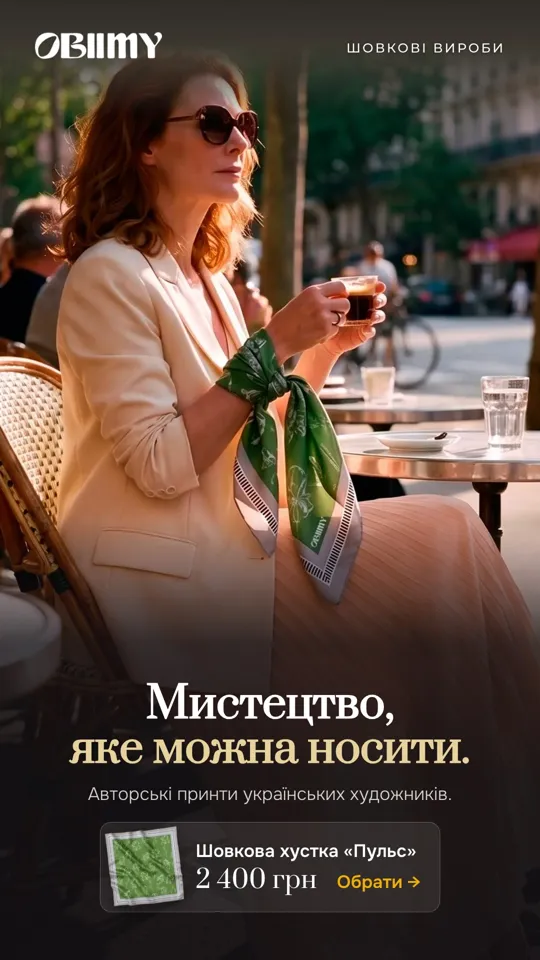
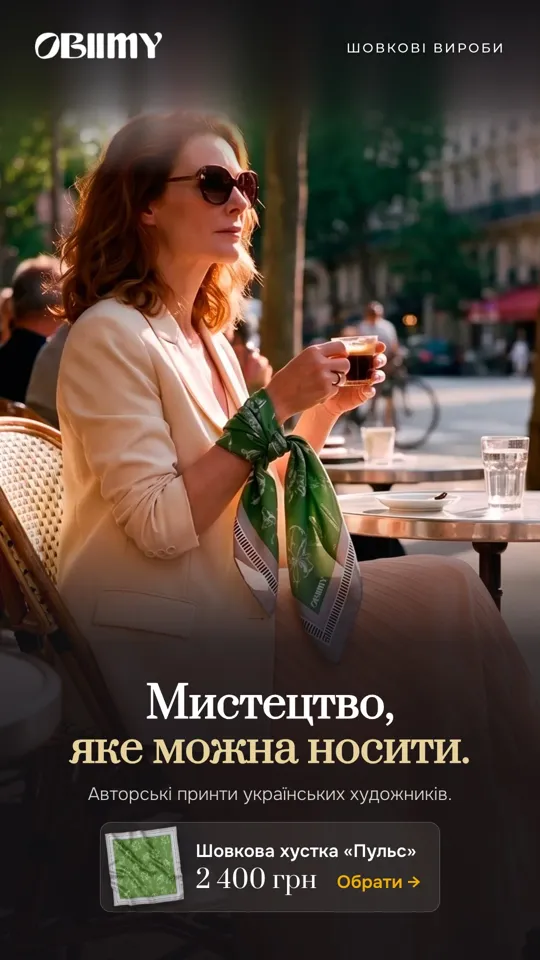
p12: the woman lower, background extended above her; gallery order follows keep.txt (g07, g08 last, o12 in the middle)

diff --git a/site/creatives.html b/site/creatives.html
@@ -89,20 +89,18 @@ footer { margin-top: 72px; color: var(--ink2); font-size: .85rem; border-top: 1p
 <button type="button" id="clear">Очистити</button>
 <textarea id="out" readonly aria-label="Список відмічених банерів"></textarea></div>
 
-<section class="grp flat"><div class="grid"><figure class="c st" data-f="st" data-id="solo-one/g07-scrunchie-gift.jpg"><a href="creatives/solo-one/g07-scrunchie-gift.jpg?v=933e0425" target="_blank" rel="noopener"><img src="creatives/solo-one/g07-scrunchie-gift-540.webp?v=933e0425" alt="Подарункові · варіант A" loading="lazy" width="540" height="960"></a>
-        <figcaption><label class="pick"><input type="checkbox" data-id="solo-one/g07-scrunchie-gift.jpg"><span>Залишити</span></label><span class="fid">g07</span><a href="creatives/solo-one/g07-scrunchie-gift.jpg?v=933e0425" download="g07-scrunchie-gift.jpg">JPG ↓</a></figcaption></figure><figure class="c st" data-f="st" data-id="solo-one/g08-scarf-gift-iskra.jpg"><a href="creatives/solo-one/g08-scarf-gift-iskra.jpg?v=e2d834a8" target="_blank" rel="noopener"><img src="creatives/solo-one/g08-scarf-gift-iskra-540.webp?v=e2d834a8" alt="Подарункові · варіант A" loading="lazy" width="540" height="960"></a>
-        <figcaption><label class="pick"><input type="checkbox" data-id="solo-one/g08-scarf-gift-iskra.jpg"><span>Залишити</span></label><span class="fid">g08</span><a href="creatives/solo-one/g08-scarf-gift-iskra.jpg?v=e2d834a8" download="g08-scarf-gift-iskra.jpg">JPG ↓</a></figcaption></figure><figure class="c st" data-f="st" data-id="solo-orig/o12-contact-iskra.jpg"><a href="creatives/solo-orig/o12-contact-iskra.jpg?v=85886eb4" target="_blank" rel="noopener"><img src="creatives/solo-orig/o12-contact-iskra-540.webp?v=85886eb4" alt="Оригінальні концепції" loading="lazy" width="540" height="960"></a>
-        <figcaption><label class="pick"><input type="checkbox" data-id="solo-orig/o12-contact-iskra.jpg"><span>Залишити</span></label><span class="fid">o12</span><a href="creatives/solo-orig/o12-contact-iskra.jpg?v=85886eb4" download="o12-contact-iskra.jpg">JPG ↓</a></figcaption></figure><figure class="c st" data-f="st" data-id="solo-tri/t01-decades.jpg"><a href="creatives/solo-tri/t01-decades.jpg?v=e7948695" target="_blank" rel="noopener"><img src="creatives/solo-tri/t01-decades-540.webp?v=e7948695" alt="Смуги-історії · варіант A" loading="lazy" width="540" height="960"></a>
+<section class="grp flat"><div class="grid"><figure class="c st" data-f="st" data-id="solo-tri/t01-decades.jpg"><a href="creatives/solo-tri/t01-decades.jpg?v=e7948695" target="_blank" rel="noopener"><img src="creatives/solo-tri/t01-decades-540.webp?v=e7948695" alt="Смуги-історії · варіант A" loading="lazy" width="540" height="960"></a>
         <figcaption><label class="pick"><input type="checkbox" data-id="solo-tri/t01-decades.jpg"><span>Залишити</span></label><span class="fid">t01</span><a href="creatives/solo-tri/t01-decades.jpg?v=e7948695" download="t01-decades.jpg">JPG ↓</a></figcaption></figure><figure class="c st" data-f="st" data-id="solo-tri/t05-avantiura-ways.jpg"><a href="creatives/solo-tri/t05-avantiura-ways.jpg?v=cb797d62" target="_blank" rel="noopener"><img src="creatives/solo-tri/t05-avantiura-ways-540.webp?v=cb797d62" alt="Смуги-історії · варіант A" loading="lazy" width="540" height="960"></a>
         <figcaption><label class="pick"><input type="checkbox" data-id="solo-tri/t05-avantiura-ways.jpg"><span>Залишити</span></label><span class="fid">t05</span><a href="creatives/solo-tri/t05-avantiura-ways.jpg?v=cb797d62" download="t05-avantiura-ways.jpg">JPG ↓</a></figcaption></figure><figure class="c st" data-f="st" data-id="solo-main/p01-quiet-luxury.jpg"><a href="creatives/solo-main/p01-quiet-luxury.jpg?v=ed75c614" target="_blank" rel="noopener"><img src="creatives/solo-main/p01-quiet-luxury-540.webp?v=ed75c614" alt="Варіант A · тихий преміум" loading="lazy" width="540" height="960"></a>
         <figcaption><label class="pick"><input type="checkbox" data-id="solo-main/p01-quiet-luxury.jpg"><span>Залишити</span></label><span class="fid">p01</span><a href="creatives/solo-main/p01-quiet-luxury.jpg?v=ed75c614" download="p01-quiet-luxury.jpg">JPG ↓</a></figcaption></figure><figure class="c st" data-f="st" data-id="solo-main/p05-character.jpg"><a href="creatives/solo-main/p05-character.jpg?v=5dff62bb" target="_blank" rel="noopener"><img src="creatives/solo-main/p05-character-540.webp?v=5dff62bb" alt="Варіант A · тихий преміум" loading="lazy" width="540" height="960"></a>
         <figcaption><label class="pick"><input type="checkbox" data-id="solo-main/p05-character.jpg"><span>Залишити</span></label><span class="fid">p05</span><a href="creatives/solo-main/p05-character.jpg?v=5dff62bb" download="p05-character.jpg">JPG ↓</a></figcaption></figure><figure class="c st" data-f="st" data-id="solo-main/p06-noticed.jpg"><a href="creatives/solo-main/p06-noticed.jpg?v=22dc43d3" target="_blank" rel="noopener"><img src="creatives/solo-main/p06-noticed-540.webp?v=22dc43d3" alt="Варіант A · тихий преміум" loading="lazy" width="540" height="960"></a>
         <figcaption><label class="pick"><input type="checkbox" data-id="solo-main/p06-noticed.jpg"><span>Залишити</span></label><span class="fid">p06</span><a href="creatives/solo-main/p06-noticed.jpg?v=22dc43d3" download="p06-noticed.jpg">JPG ↓</a></figcaption></figure><figure class="c st" data-f="st" data-id="solo-main/p07-whole-look.jpg"><a href="creatives/solo-main/p07-whole-look.jpg?v=38e9db4b" target="_blank" rel="noopener"><img src="creatives/solo-main/p07-whole-look-540.webp?v=38e9db4b" alt="Варіант A · тихий преміум" loading="lazy" width="540" height="960"></a>
         <figcaption><label class="pick"><input type="checkbox" data-id="solo-main/p07-whole-look.jpg"><span>Залишити</span></label><span class="fid">p07</span><a href="creatives/solo-main/p07-whole-look.jpg?v=38e9db4b" download="p07-whole-look.jpg">JPG ↓</a></figcaption></figure><figure class="c st" data-f="st" data-id="solo-main/p11-italian-silk.jpg"><a href="creatives/solo-main/p11-italian-silk.jpg?v=b608ec16" target="_blank" rel="noopener"><img src="creatives/solo-main/p11-italian-silk-540.webp?v=b608ec16" alt="Варіант A · тихий преміум" loading="lazy" width="540" height="960"></a>
-        <figcaption><label class="pick"><input type="checkbox" data-id="solo-main/p11-italian-silk.jpg"><span>Залишити</span></label><span class="fid">p11</span><a href="creatives/solo-main/p11-italian-silk.jpg?v=b608ec16" download="p11-italian-silk.jpg">JPG ↓</a></figcaption></figure><figure class="c st" data-f="st" data-id="solo-main/p12-wearable-art.jpg"><a href="creatives/solo-main/p12-wearable-art.jpg?v=04d4a08f" target="_blank" rel="noopener"><img src="creatives/solo-main/p12-wearable-art-540.webp?v=04d4a08f" alt="Варіант A · тихий преміум" loading="lazy" width="540" height="960"></a>
-        <figcaption><label class="pick"><input type="checkbox" data-id="solo-main/p12-wearable-art.jpg"><span>Залишити</span></label><span class="fid">p12</span><a href="creatives/solo-main/p12-wearable-art.jpg?v=04d4a08f" download="p12-wearable-art.jpg">JPG ↓</a></figcaption></figure><figure class="c st" data-f="st" data-id="solo-main/p15-iskra.jpg"><a href="creatives/solo-main/p15-iskra.jpg?v=54aba789" target="_blank" rel="noopener"><img src="creatives/solo-main/p15-iskra-540.webp?v=54aba789" alt="Варіант A · тихий преміум" loading="lazy" width="540" height="960"></a>
+        <figcaption><label class="pick"><input type="checkbox" data-id="solo-main/p11-italian-silk.jpg"><span>Залишити</span></label><span class="fid">p11</span><a href="creatives/solo-main/p11-italian-silk.jpg?v=b608ec16" download="p11-italian-silk.jpg">JPG ↓</a></figcaption></figure><figure class="c st" data-f="st" data-id="solo-main/p12-wearable-art.jpg"><a href="creatives/solo-main/p12-wearable-art.jpg?v=05f2b0ac" target="_blank" rel="noopener"><img src="creatives/solo-main/p12-wearable-art-540.webp?v=05f2b0ac" alt="Варіант A · тихий преміум" loading="lazy" width="540" height="960"></a>
+        <figcaption><label class="pick"><input type="checkbox" data-id="solo-main/p12-wearable-art.jpg"><span>Залишити</span></label><span class="fid">p12</span><a href="creatives/solo-main/p12-wearable-art.jpg?v=05f2b0ac" download="p12-wearable-art.jpg">JPG ↓</a></figcaption></figure><figure class="c st" data-f="st" data-id="solo-main/p15-iskra.jpg"><a href="creatives/solo-main/p15-iskra.jpg?v=54aba789" target="_blank" rel="noopener"><img src="creatives/solo-main/p15-iskra-540.webp?v=54aba789" alt="Варіант A · тихий преміум" loading="lazy" width="540" height="960"></a>
         <figcaption><label class="pick"><input type="checkbox" data-id="solo-main/p15-iskra.jpg"><span>Залишити</span></label><span class="fid">p15</span><a href="creatives/solo-main/p15-iskra.jpg?v=54aba789" download="p15-iskra.jpg">JPG ↓</a></figcaption></figure><figure class="c st" data-f="st" data-id="solo-main/u02-london.jpg"><a href="creatives/solo-main/u02-london.jpg?v=49ae0bbc" target="_blank" rel="noopener"><img src="creatives/solo-main/u02-london-540.webp?v=49ae0bbc" alt="Варіант A · український преміум" loading="lazy" width="540" height="960"></a>
-        <figcaption><label class="pick"><input type="checkbox" data-id="solo-main/u02-london.jpg"><span>Залишити</span></label><span class="fid">u02</span><a href="creatives/solo-main/u02-london.jpg?v=49ae0bbc" download="u02-london.jpg">JPG ↓</a></figcaption></figure><figure class="c st" data-f="st" data-id="solo-main/u03-made-in-ua.jpg"><a href="creatives/solo-main/u03-made-in-ua.jpg?v=9a48dc13" target="_blank" rel="noopener"><img src="creatives/solo-main/u03-made-in-ua-540.webp?v=9a48dc13" alt="Варіант A · український преміум" loading="lazy" width="540" height="960"></a>
+        <figcaption><label class="pick"><input type="checkbox" data-id="solo-main/u02-london.jpg"><span>Залишити</span></label><span class="fid">u02</span><a href="creatives/solo-main/u02-london.jpg?v=49ae0bbc" download="u02-london.jpg">JPG ↓</a></figcaption></figure><figure class="c st" data-f="st" data-id="solo-orig/o12-contact-iskra.jpg"><a href="creatives/solo-orig/o12-contact-iskra.jpg?v=85886eb4" target="_blank" rel="noopener"><img src="creatives/solo-orig/o12-contact-iskra-540.webp?v=85886eb4" alt="Оригінальні концепції" loading="lazy" width="540" height="960"></a>
+        <figcaption><label class="pick"><input type="checkbox" data-id="solo-orig/o12-contact-iskra.jpg"><span>Залишити</span></label><span class="fid">o12</span><a href="creatives/solo-orig/o12-contact-iskra.jpg?v=85886eb4" download="o12-contact-iskra.jpg">JPG ↓</a></figcaption></figure><figure class="c st" data-f="st" data-id="solo-main/u03-made-in-ua.jpg"><a href="creatives/solo-main/u03-made-in-ua.jpg?v=9a48dc13" target="_blank" rel="noopener"><img src="creatives/solo-main/u03-made-in-ua-540.webp?v=9a48dc13" alt="Варіант A · український преміум" loading="lazy" width="540" height="960"></a>
         <figcaption><label class="pick"><input type="checkbox" data-id="solo-main/u03-made-in-ua.jpg"><span>Залишити</span></label><span class="fid">u03</span><a href="creatives/solo-main/u03-made-in-ua.jpg?v=9a48dc13" download="u03-made-in-ua.jpg">JPG ↓</a></figcaption></figure><figure class="c st" data-f="st" data-id="solo-main/u05-luxury.jpg"><a href="creatives/solo-main/u05-luxury.jpg?v=9126afe5" target="_blank" rel="noopener"><img src="creatives/solo-main/u05-luxury-540.webp?v=9126afe5" alt="Варіант A · український преміум" loading="lazy" width="540" height="960"></a>
         <figcaption><label class="pick"><input type="checkbox" data-id="solo-main/u05-luxury.jpg"><span>Залишити</span></label><span class="fid">u05</span><a href="creatives/solo-main/u05-luxury.jpg?v=9126afe5" download="u05-luxury.jpg">JPG ↓</a></figcaption></figure><figure class="c st" data-f="st" data-id="solo-main/c02-iskra.jpg"><a href="creatives/solo-main/c02-iskra.jpg?v=fadee0c8" target="_blank" rel="noopener"><img src="creatives/solo-main/c02-iskra-540.webp?v=fadee0c8" alt="Варіант A · повноекранні" loading="lazy" width="540" height="960"></a>
         <figcaption><label class="pick"><input type="checkbox" data-id="solo-main/c02-iskra.jpg"><span>Залишити</span></label><span class="fid">c02</span><a href="creatives/solo-main/c02-iskra.jpg?v=fadee0c8" download="c02-iskra.jpg">JPG ↓</a></figcaption></figure><figure class="c st" data-f="st" data-id="solo-main/c05-zolote.jpg"><a href="creatives/solo-main/c05-zolote.jpg?v=4241e29b" target="_blank" rel="noopener"><img src="creatives/solo-main/c05-zolote-540.webp?v=4241e29b" alt="Варіант A · повноекранні" loading="lazy" width="540" height="960"></a>
@@ -113,7 +111,9 @@ footer { margin-top: 72px; color: var(--ink2); font-size: .85rem; border-top: 1p
         <figcaption><label class="pick"><input type="checkbox" data-id="solo-main/c23-look-dark.jpg"><span>Залишити</span></label><span class="fid">c23</span><a href="creatives/solo-main/c23-look-dark.jpg?v=664bd249" download="c23-look-dark.jpg">JPG ↓</a></figcaption></figure><figure class="c st" data-f="st" data-id="final2/obiimy-12-paris-chervonyi-shovk-1080x1920.jpg"><a href="creatives/final2/obiimy-12-paris-chervonyi-shovk-1080x1920.jpg?v=db0148a4" target="_blank" rel="noopener"><img src="creatives/final2/obiimy-12-paris-chervonyi-shovk-1080x1920-540.webp?v=db0148a4" alt="Серія 2 · Париж і Рив’єра" loading="lazy" width="540" height="960"></a>
         <figcaption><label class="pick"><input type="checkbox" data-id="final2/obiimy-12-paris-chervonyi-shovk-1080x1920.jpg"><span>Залишити</span></label><span class="fid">obiimy</span><a href="creatives/final2/obiimy-12-paris-chervonyi-shovk-1080x1920.jpg?v=db0148a4" download="obiimy-12-paris-chervonyi-shovk-1080x1920.jpg">JPG ↓</a></figcaption></figure><figure class="c st" data-f="st" data-id="final2/obiimy-13-paris-shal-1080x1920.jpg"><a href="creatives/final2/obiimy-13-paris-shal-1080x1920.jpg?v=51ed99b8" target="_blank" rel="noopener"><img src="creatives/final2/obiimy-13-paris-shal-1080x1920-540.webp?v=51ed99b8" alt="Серія 2 · Париж і Рив’єра" loading="lazy" width="540" height="960"></a>
         <figcaption><label class="pick"><input type="checkbox" data-id="final2/obiimy-13-paris-shal-1080x1920.jpg"><span>Залишити</span></label><span class="fid">obiimy</span><a href="creatives/final2/obiimy-13-paris-shal-1080x1920.jpg?v=51ed99b8" download="obiimy-13-paris-shal-1080x1920.jpg">JPG ↓</a></figcaption></figure><figure class="c st" data-f="st" data-id="final2/obiimy-20-solo-rivera-1080x1920.jpg"><a href="creatives/final2/obiimy-20-solo-rivera-1080x1920.jpg?v=9ee93e36" target="_blank" rel="noopener"><img src="creatives/final2/obiimy-20-solo-rivera-1080x1920-540.webp?v=9ee93e36" alt="Серія 2 · Париж і Рив’єра" loading="lazy" width="540" height="960"></a>
-        <figcaption><label class="pick"><input type="checkbox" data-id="final2/obiimy-20-solo-rivera-1080x1920.jpg"><span>Залишити</span></label><span class="fid">obiimy</span><a href="creatives/final2/obiimy-20-solo-rivera-1080x1920.jpg?v=9ee93e36" download="obiimy-20-solo-rivera-1080x1920.jpg">JPG ↓</a></figcaption></figure></div></section>
+        <figcaption><label class="pick"><input type="checkbox" data-id="final2/obiimy-20-solo-rivera-1080x1920.jpg"><span>Залишити</span></label><span class="fid">obiimy</span><a href="creatives/final2/obiimy-20-solo-rivera-1080x1920.jpg?v=9ee93e36" download="obiimy-20-solo-rivera-1080x1920.jpg">JPG ↓</a></figcaption></figure><figure class="c st" data-f="st" data-id="solo-one/g07-scrunchie-gift.jpg"><a href="creatives/solo-one/g07-scrunchie-gift.jpg?v=933e0425" target="_blank" rel="noopener"><img src="creatives/solo-one/g07-scrunchie-gift-540.webp?v=933e0425" alt="Подарункові · варіант A" loading="lazy" width="540" height="960"></a>
+        <figcaption><label class="pick"><input type="checkbox" data-id="solo-one/g07-scrunchie-gift.jpg"><span>Залишити</span></label><span class="fid">g07</span><a href="creatives/solo-one/g07-scrunchie-gift.jpg?v=933e0425" download="g07-scrunchie-gift.jpg">JPG ↓</a></figcaption></figure><figure class="c st" data-f="st" data-id="solo-one/g08-scarf-gift-iskra.jpg"><a href="creatives/solo-one/g08-scarf-gift-iskra.jpg?v=e2d834a8" target="_blank" rel="noopener"><img src="creatives/solo-one/g08-scarf-gift-iskra-540.webp?v=e2d834a8" alt="Подарункові · варіант A" loading="lazy" width="540" height="960"></a>
+        <figcaption><label class="pick"><input type="checkbox" data-id="solo-one/g08-scarf-gift-iskra.jpg"><span>Залишити</span></label><span class="fid">g08</span><a href="creatives/solo-one/g08-scarf-gift-iskra.jpg?v=e2d834a8" download="g08-scarf-gift-iskra.jpg">JPG ↓</a></figcaption></figure></div></section>
 <footer>Фото й логотип — obiimy.world. Креативи зроблено за допомогою Claude Code.</footer>
 </div>
 <dialog id="lb" aria-label="Перегляд банера">

diff --git a/ads/solo/solo4.html b/ads/solo/solo4.html
@@ -713,8 +713,8 @@ body { margin: 0; background: #666; font-family: 'Onest', 'Helvetica Neue', Aria
 <!-- Quiet premium: Мистецтво, яке можна носити. -->
 <section class="ad full dark" id="p12-wearable-art">
   <div style="left:0;right:0;top:0;bottom:0;background:#141216"></div>
-  <div style="left:0;right:0;top:0;height:250px;background:rgb(94,89,73)"></div>
-  <div class="photo" style="position:absolute;left:0;right:0;top:90px;height:1920px;-webkit-mask-image:linear-gradient(180deg,transparent 0,#000 140px);mask-image:linear-gradient(180deg,transparent 0,#000 140px)"><img src="src/puls-44-2-2k.webp" alt="" style="object-position:42% 40%"></div>
+  <div style="left:0;right:0;top:0;height:370px;background:rgb(94,89,73)"></div><div style="left:0;right:0;top:0;height:360px;background:url(src/puls-44-2-top.webp) 42% 0/1920px 100% no-repeat"></div><div style="left:0;right:0;top:0;height:360px;background:linear-gradient(180deg,rgba(20,18,22,.86) 0%,rgba(20,18,22,.6) 45%,rgba(20,18,22,0) 100%)"></div>
+  <div class="photo" style="position:absolute;left:0;right:0;top:210px;height:1920px;-webkit-mask-image:linear-gradient(180deg,transparent 0,#000 140px);mask-image:linear-gradient(180deg,transparent 0,#000 140px)"><img src="src/puls-44-2-2k.webp" alt="" style="object-position:42% 40%"></div>
   <div style="left:0;right:0;top:0;height:260px;background:linear-gradient(180deg,rgba(20,18,22,.55) 0%,rgba(20,18,22,0) 100%)"></div><div style="left:0;right:0;top:1040px;bottom:0;background:linear-gradient(180deg,rgba(20,18,22,0) 0%,rgba(20,18,22,.78) 28%,rgba(20,18,22,.92) 58%,rgba(20,18,22,.95) 100%)"></div>
   <img src="../../brand/logo-white.png" alt="" style="left:70px;top:64px;height:54px;display:block">
   <p style="right:70px;top:80px;font-family:Montserrat,sans-serif;font-size:26px;font-weight:500;letter-spacing:.14em;text-transform:uppercase;white-space:nowrap;color:#fff;text-shadow:0 1px 10px rgba(0,0,0,.45)">Шовкові вироби</p>

diff --git a/ads/solo/build4.py b/ads/solo/build4.py
@@ -87,7 +87,8 @@ PROD = {
 MIN = {}   # id -> (cutouts, "Шовкова хустка «…»") for the minimal premium banners
 
 LABEL = {"p12-wearable-art": "Шовкові вироби"}      # top-right label, where it differs from the default
-INLINE = {"p05-character", "p12-wearable-art"}     # no button: «Обрати →» to the right of the price
+INLINE = {"p05-character", "p12-wearable-art"}
+MIRROR_TOP = {"p12-wearable-art"}   # the source frame has no background above the head     # no button: «Обрати →» to the right of the price
 
 def product_card(id, price_main, price_small):
     if id in MIN:
@@ -128,6 +129,9 @@ def full(id, photo, pos, h, em, body, price_main, price_small, cta, spot=False, 
     ph = (spot_photo(photo, pos, style=st) if spot
           else f'<div class="photo" style="{st}"><img src="{S2(photo)}" alt="" style="object-position:{pos}"></div>')
     fill = f'<div style="left:0;right:0;top:0;height:{t + 160}px;background:{top_rgb}"></div>' if t > 0 else ""
+    if id in MIRROR_TOP and t > 0:
+        fill += (f'<div style="left:0;right:0;top:0;height:{t + 150}px;background:url(src/{photo}-top.webp) {pos.split()[0]} 0/1920px 100% no-repeat"></div>'
+                 + f'<div style="left:0;right:0;top:0;height:{t + 150}px;background:linear-gradient(180deg,rgba(20,18,22,.86) 0%,rgba(20,18,22,.6) 45%,rgba(20,18,22,0) 100%)"></div>')
     pr = product_card(id, price_main, price_small)
     block = f"""<h1 class="h" style="position:static;color:#fff;font-size:{hs}px">{h}{f'<br><em style="color:#E9D7A6">{em}</em>' if em else ''}</h1>
     {f'<p class="body" style="position:static;margin-top:18px;max-width:900px">{nb(body)}</p>' if body else ""}
@@ -326,7 +330,7 @@ QUIET = [
 for id, ph, pos, spot, h, em, body, cuts, title, price, cta in QUIET:
     MIN[id] = (cuts, title)
     full(id, ph, pos, h, em, body, price, "", cta, spot=spot, note=f"Quiet premium: {h} {em}", hs=86,
-         shade_from=1120 if id == "p06-noticed" else 980 if spot else 1040, **({"box": (110, 1320)} if id == "p06-noticed" else {"box": (90, 1920)} if id == "p12-wearable-art" else {"box": (190, 1730)} if id == "p09-for-her" else {}))
+         shade_from=1120 if id == "p06-noticed" else 980 if spot else 1040, **({"box": (110, 1320)} if id == "p06-noticed" else {"box": (210, 1920)} if id == "p12-wearable-art" else {"box": (190, 1730)} if id == "p09-for-her" else {}))
 
 HEAD = """<!DOCTYPE html>
 <html lang="uk"><head><meta charset="utf-8"><title>Obiimy · SOLO classic</title>

diff --git a/ads/build_gallery.py b/ads/build_gallery.py
@@ -133,6 +133,10 @@ def build(site: pathlib.Path):
         for g in groups:
             for i, c in g["cards"]:
                 if select(i) and i not in seen: seen.add(i); cards.append(c)
+        order = {k: n for n, k in enumerate(keep)}
+        ids = [i for g in groups for i, _ in g["cards"] if select(i)]
+        ids = list(dict.fromkeys(ids)); by = dict(zip(ids, cards))
+        cards = [by[i] for i in sorted(ids, key=lambda i: order.get(i, 10 ** 6))]
         return f'<section class="grp flat"><div class="grid">{"".join(cards)}</div></section>', len(cards)
     all_ids = {i for g in groups for i, _ in g["cards"]}
     n_keep = len(keep_set & all_ids)
